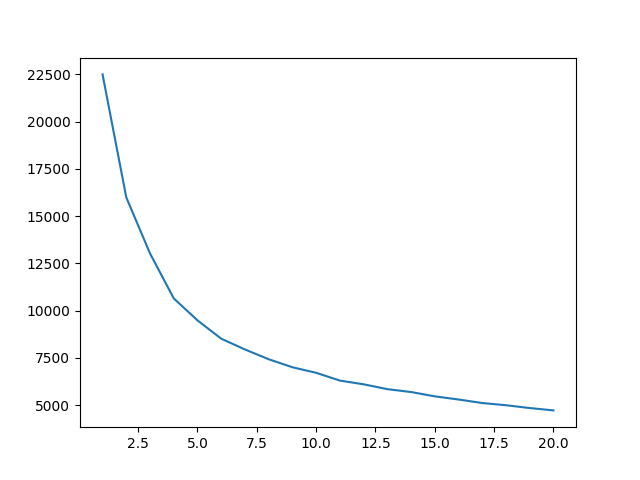
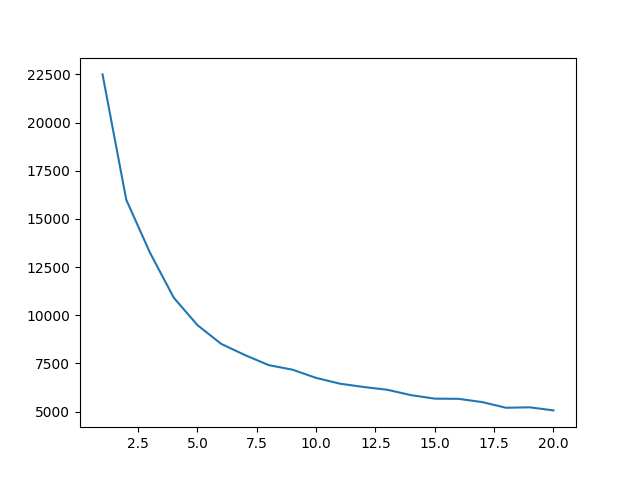
Problem 19

diff --git a/E3/P19/D.py b/E3/P19/D.py
@@ -1,0 +1,42 @@
+import pandas as pd
+import numpy as np
+import matplotlib.pyplot as plt
+from sklearn.cluster import AgglomerativeClustering as AC
+from sklearn.preprocessing import StandardScaler
+from scipy.optimize import linear_sum_assignment
+from scipy.cluster.hierarchy import dendrogram
+from ISLP.cluster import compute_linkage
+from scipy.cluster.hierarchy import cut_tree
+from sklearn.metrics import confusion_matrix
+
+K = 4
+
+scaler = StandardScaler(with_mean=True, with_std=True)
+
+trainDF = pd.read_csv('data/train.csv')
+X = scaler.fit_transform(trainDF.filter(regex=r'\.mean$'))
+
+completeLinkage = compute_linkage(AC(distance_threshold=0, n_clusters=None, linkage='complete').fit(X))
+singleLinkage = compute_linkage(AC(distance_threshold=0, n_clusters=None, linkage='single').fit(X))
+
+complete_clusters = cut_tree(completeLinkage, n_clusters=K).flatten()
+single_clusters = cut_tree(singleLinkage, n_clusters=K).flatten()
+
+print('Complete cluster labels')
+print(complete_clusters)
+print()
+print('Single cluster labels')
+print(single_clusters)
+
+
+
+print(confusion_matrix(complete_clusters, single_clusters))
+
+fig, ax = plt.subplots(1, 2, figsize=(14, 6))
+dendrogram(completeLinkage, ax=ax[0], color_threshold=completeLinkage[-K, 2])
+ax[0].set_title("Complete Linkage")
+
+dendrogram(singleLinkage, ax=ax[1], color_threshold=singleLinkage[-K, 2])
+ax[1].set_title("Single Linkage")
+
+plt.show()

diff --git a/E3/P19/B.py b/E3/P19/B.py
@@ -3,29 +3,21 @@ import numpy as np
 import matplotlib.pyplot as plt
 from sklearn.cluster import KMeans
 from sklearn.preprocessing import StandardScaler
+from scipy.optimize import linear_sum_assignment
 
 trainDF = pd.read_csv('data/train.csv')
 
-scaler = StandardScaler()
+scaler = StandardScaler(with_mean=True, with_std=True)
+
 X = scaler.fit_transform(trainDF.filter(regex=r'\.mean$'))
 
-kmeans = KMeans(n_clusters=4, random_state=2, n_init=20).fit(X)
+kmeans = KMeans(n_clusters=4, random_state=2, n_init=10, init='random').fit(X)
 
-classes = np.unique(trainDF['class4'])
+contingency = pd.DataFrame({ 'class': trainDF['class4'], 'cluster': kmeans.labels_})
+contingency = contingency.groupby(['class', 'cluster']).size().unstack()
+contingency = contingency.fillna(0)
 
-confusionDF = pd.DataFrame({'class': [], '1': [], '2': [], '3': [], '4': []})
+lsa = linear_sum_assignment(contingency, maximize = True)
 
-for cl in classes:
-    sums = [0,0,0,0]
-    for row in trainDF[trainDF['class4'] == cl].index.values:
-        sums[kmeans.labels_[row]]+=1
-
-    confusionDF = pd.concat(
-        [
-            confusionDF,
-            pd.DataFrame([[cl, sums[0], sums[1], sums[2], sums[3]]], columns=confusionDF.columns)
-        ], 
-        ignore_index=True
-    )
-print(confusionDF)
+print(contingency[lsa[1]])
 

diff --git a/E3/P19/C.py b/E3/P19/C.py
@@ -1,0 +1,42 @@
+import pandas as pd
+import numpy as np
+import matplotlib.pyplot as plt
+from sklearn.cluster import KMeans
+from sklearn.preprocessing import StandardScaler
+from scipy.optimize import linear_sum_assignment
+
+trainDF = pd.read_csv('data/train.csv')
+
+scaler = StandardScaler(with_mean=True, with_std=True)
+
+X = scaler.fit_transform(trainDF.filter(regex=r'\.mean$'))
+
+losses = np.array([])
+
+for i in range (0, 1000):
+    kmeans = KMeans(n_clusters=4, n_init=1, init='random').fit(X)
+    losses = np.append(losses, kmeans.inertia_)
+print('random')
+print('Max loss', np.max(losses))
+print('Min loss', np.min(losses))
+
+plt.hist(losses, 100)
+plt.xlabel('loss')
+plt.ylabel('count')
+plt.title('random')
+plt.show()
+
+losses = np.array([])
+
+for i in range (0, 1000):
+    kmeansplus = KMeans(n_clusters=4, n_init=1, init='k-means++').fit(X)
+    losses = np.append(losses, kmeansplus.inertia_)
+
+print('Max loss', np.max(losses))
+print('Min loss', np.min(losses))
+
+plt.hist(losses, 100)
+plt.xlabel('loss')
+plt.ylabel('count')
+plt.title('k-means++')
+plt.show()

diff --git a/project/analysis.py b/project/analysis.py
@@ -1,0 +1,38 @@
+import pandas as pd
+import numpy as np
+import seaborn as sns
+from sklearn.decomposition import PCA
+from sklearn.preprocessing import StandardScaler
+import matplotlib.pyplot as plt
+
+scaler = StandardScaler(with_mean=True, with_std=True)
+
+trainDF = pd.read_csv('data/train.csv')
+class2 = (trainDF['class4'] != 'nonevent').astype(int)
+X = trainDF.drop(columns=['date', 'id', 'class4'])
+scaled_X = scaler.fit_transform(X)
+
+pca = PCA()
+pca.fit(scaled_X)
+
+scores = pca.transform(scaled_X)
+col = np.where(class2==1,'b','r')
+
+corr_mat = X.corr()
+print(corr_mat)
+
+sns.heatmap(corr_mat, cmap='YlGnBu')
+
+i, j = 0, 1 # which components
+scale_arrow = s_ = 50
+fig, ax = plt.subplots(1, 1, figsize=(8, 8))
+ax.scatter(scores[:,0], scores[:,1], color=col)
+ax.set_xlabel('PC%d' % (i+1))
+ax.set_ylabel('PC%d' % (j+1))
+for k in range(pca.components_.shape[1]):
+    ax.arrow(0, 0, s_*pca.components_[i,k], s_*pca.components_[j,k])
+    ax.text(s_*pca.components_[i,k],
+        s_*pca.components_[j,k],
+        X.columns[k])
+
+plt.show()

diff --git a/E3/P19/A.py b/E3/P19/A.py
@@ -12,7 +12,7 @@ X = scaler.fit_transform(trainDF.filter(regex=r'\.mean$'))
 losses = []
 
 for K in range(1, 21):
-    kmeans = KMeans(n_clusters=K, random_state=2, n_init=20).fit(X)
+    kmeans = KMeans(n_clusters=K, random_state=2, n_init=10, init='random').fit(X)
     losses.append(kmeans.inertia_)
 
 plt.plot(np.linspace(1, 20, 20), losses)

diff --git a/E3/E3_submission.md b/E3/E3_submission.md
@@ -207,11 +207,111 @@ The columns need to be normalized, because the similiarity is calculated with eu
 
 ### Output
 ```bash
-      class      1      2    3     4
-0        II   13.0   32.0  0.0  72.0
-1        Ia    5.0    1.0  0.0  20.0
-2        Ib    4.0   15.0  0.0  63.0
-3  nonevent  107.0  100.0  4.0  14.0
+cluster      1    3     0      2
+class                           
+II        30.0  0.0  70.0   17.0
+Ia         1.0  0.0  18.0    7.0
+Ib        14.0  0.0  61.0    7.0
+nonevent  97.0  9.0  18.0  101.0
 ```
 
-Despite using four clusters, one of the clusters (in this case 3) ends up allmost empty. If each class were assigned to the cluster most of their observations are in, classes 'II' 'Ia' and 'Ib' would fall into the same cluster (in this case 4). While the nonevent class is mostly separated from the other events it is also split up almost equally between two classes. 
+Using this contingency table the class mappings become: 
+
+|Cluster|Class    |
+|-------|---------|
+| 0     | Ib      |
+| 1     | II      |
+| 2     | nonevent|
+| 3     | Ia      |
+
+This means that the errors per class are:
+| Class     | Errors            |
+|-|-|
+| II        | 70 + 17 = 87      |
+| Ia        | 1 + 18 + 7 = 26   |
+| Ib        | 14 + 7 = 21       |
+| nonevent  | 97 + 9 + 18 = 124 |
+
+Nonevent has the most missclassified observations, but Ia has all its observations missclassified.
+
+## Task c
+### I
+![loss histogram](../static/E3P19C.png)
+
+```bash
+Max loss 12440.854500553978
+Min loss 10646.871669424883
+```
+
+From the histogram we can see that about 50 of the 1000 runs fall into the 1% range of the minimum loss. This makes the probability of a good run $p=\frac{50}{1000}=0.05$. The estimated number of iteration until one good run becomes: $\frac{1}{0.05}=20$
+
+### II
+![loss histogram k-means++](../static/E3P19C2.png)
+
+```bash
+Max loss 12424.835358011127
+Min loss 10646.871669424883
+```
+
+There is a substantial increase in the low losses. From the histogram it seems about 450 of the 1000 iterations produce losses within 1% of the lowest loss. This makes the probability: $p = \frac{450}{1000}=0.45$ and the estimated number of iterations become: $\frac{1}{0.45}=2.2222...$, which can be rounded up to 3.
+
+The number of frequency of low losses was not the only thing that k-means++ improved. It also lowered the highest loss. The lowset loss remained almost unaffected however.
+
+## Task d
+### I
+
+![Single and compl;ete link dendrograms](../static/E3P19D.png)
+
+#### Output
+```bash
+Complete cluster labels
+[0 0 0 0 1 0 0 0 0 0 0 0 0 0 0 0 0 0 0 0 1 0 0 0 0 0 0 0 0 0 0 0 0 0 0 0 0
+ 0 0 0 0 0 0 0 0 0 0 0 0 0 0 0 0 0 0 0 0 0 0 0 0 0 0 0 0 0 0 0 0 0 0 0 0 0
+ 0 1 1 1 1 1 1 1 1 1 1 1 1 1 1 1 1 1 1 1 0 0 0 1 0 0 0 0 0 0 0 0 0 0 0 0 0
+ 0 0 0 0 0 0 0 0 0 0 0 0 1 1 1 1 1 1 1 1 1 1 1 1 1 1 1 1 1 1 1 0 1 0 0 0 0
+ 0 0 0 0 0 0 0 0 0 0 0 0 0 0 0 0 0 0 0 0 0 0 0 0 0 0 0 0 0 0 0 0 0 0 0 1 0
+ 1 1 1 1 1 1 1 1 2 1 1 1 1 1 1 1 0 0 1 1 0 0 0 0 0 0 0 0 1 0 0 0 0 0 0 0 0
+ 0 0 0 0 0 0 0 0 0 0 0 0 0 1 1 1 0 0 0 0 0 0 0 0 0 0 0 1 0 0 0 0 0 0 0 0 0
+ 0 0 0 0 0 0 0 0 0 0 0 0 0 0 1 1 1 0 0 0 1 1 0 0 0 0 0 0 0 0 0 0 0 0 0 0 0
+ 0 0 0 0 0 0 0 0 0 0 0 1 1 1 1 1 1 1 1 0 1 1 1 0 0 0 0 0 0 0 0 0 0 0 0 0 0
+ 0 0 0 0 0 0 0 0 0 0 0 0 0 0 0 1 1 1 1 2 1 1 1 1 1 1 1 1 1 1 1 3 1 3 1 1 1
+ 1 1 1 1 1 1 0 1 0 0 0 0 0 0 0 0 1 0 0 0 0 0 0 0 0 0 0 0 0 1 0 0 0 0 0 0 0
+ 0 0 0 0 1 1 1 1 1 1 1 1 1 1 1 1 1 1 1 1 1 1 1 0 0 0 0 0 0 0 0 0 0 0 0 0 0
+ 0 0 0 0 0 0]
+
+Single cluster labels
+[0 0 0 0 0 0 0 0 0 0 0 0 0 0 0 0 0 0 0 0 0 0 0 0 0 0 0 0 0 0 0 0 0 0 0 0 0
+ 0 0 0 0 0 0 0 0 0 0 0 0 0 0 0 0 0 0 0 0 0 0 0 0 0 0 0 0 0 0 0 0 0 0 0 0 0
+ 0 0 0 0 0 0 0 0 0 0 0 0 0 0 0 0 0 0 0 0 0 0 0 0 0 0 0 0 0 0 0 0 0 0 0 0 0
+ 0 0 0 0 0 0 0 0 0 0 0 0 0 0 0 0 0 0 0 0 0 0 0 0 0 0 0 0 0 0 0 0 0 0 0 0 0
+ 0 0 0 0 0 0 0 0 0 0 0 0 0 0 0 0 0 0 0 0 0 0 0 0 0 0 0 0 0 0 0 0 0 0 0 0 0
+ 0 0 0 0 0 0 0 0 1 0 0 0 0 0 0 0 0 0 0 0 0 0 0 0 0 0 0 0 0 0 0 0 0 0 0 0 0
+ 0 0 0 0 0 0 0 0 0 0 0 0 0 0 0 0 0 0 0 0 0 0 0 0 0 0 0 0 0 0 0 0 0 0 0 0 0
+ 0 0 0 0 0 0 0 0 0 0 0 0 0 0 0 0 0 0 0 0 0 0 0 0 0 0 0 0 0 0 0 0 0 0 0 0 0
+ 0 0 0 0 0 0 0 0 0 0 0 0 0 0 0 0 0 0 0 0 0 0 0 0 0 0 0 0 0 0 0 0 0 0 0 0 0
+ 0 0 0 0 0 0 0 0 0 0 0 0 0 0 0 0 0 0 0 2 0 0 0 0 0 0 0 0 0 0 0 3 0 3 0 0 0
+ 0 0 0 0 0 0 0 0 0 0 0 0 0 0 0 0 0 0 0 0 0 0 0 0 0 0 0 0 0 0 0 0 0 0 0 0 0
+ 0 0 0 0 0 0 0 0 0 0 0 0 0 0 0 0 0 0 0 0 0 0 0 0 0 0 0 0 0 0 0 0 0 0 0 0 0
+ 0 0 0 0 0 0]
+```
+
+### II
+confusion matrix
+```bash
+[[318   0   0   0]
+ [128   0   0   0]
+ [  0   1   1   0]
+ [  0   0   0   2]]
+```
+
+From the confusion matrix it is visible that:
+- All 318 observations in complete linkage cluster 0 are also cluster 0 in single linkage.
+- All 128 observations in complete linkage cluster 1 are in cluster 0 in single linkage.
+- In both complete and single linkage there are only a couple observations at most in clusters 2 and 3.
+
+Single linkage produces a very poorly balanced denrogram. Almost all observations fall into the cluster 0. Complete linkage produces a better balanced dendrogram compared to single linkage, but two of the clusters still only have a couple observations.
+
+### III
+Single linkage tends to produce elongated clusters, because only the smallest distances matter when choosing links. This be observed in the above dendrogram in cluster 0 (orange) as long streaks that stretch across the cluster.
+
+Complete linkage on the other hand prdouces more compact clusters, due to the max distance between clusters being used for merges. This is also visible in the dendrogram, as the links are mush shorter than in the single linkage.
